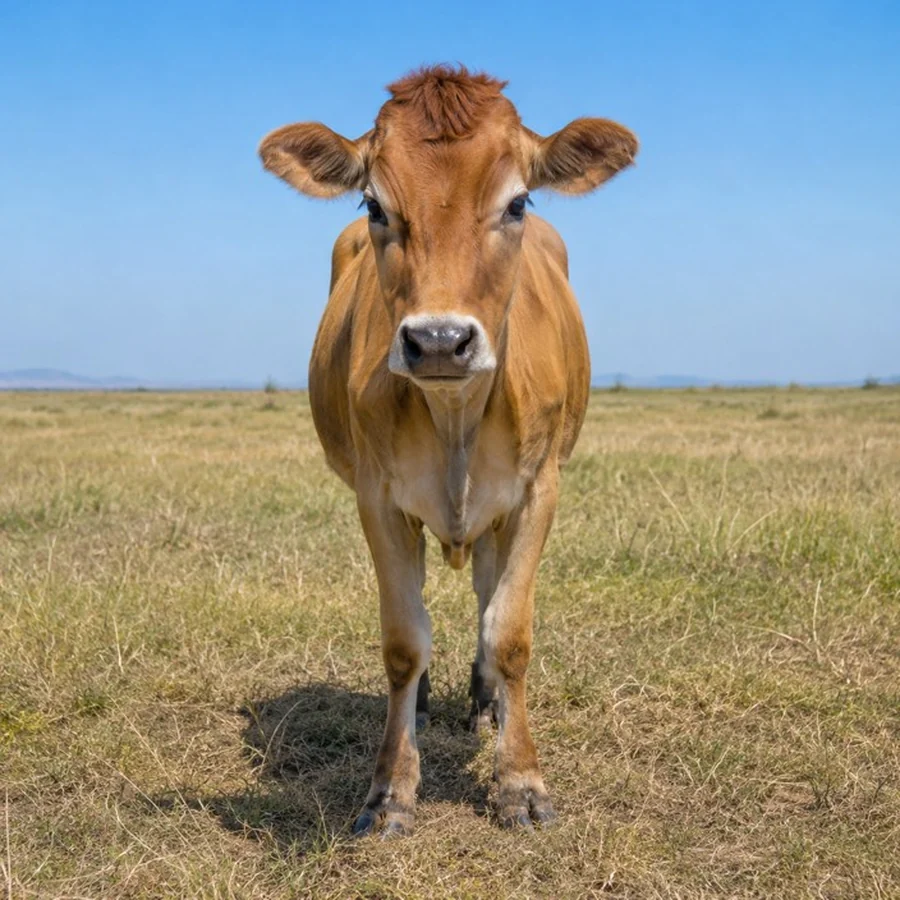
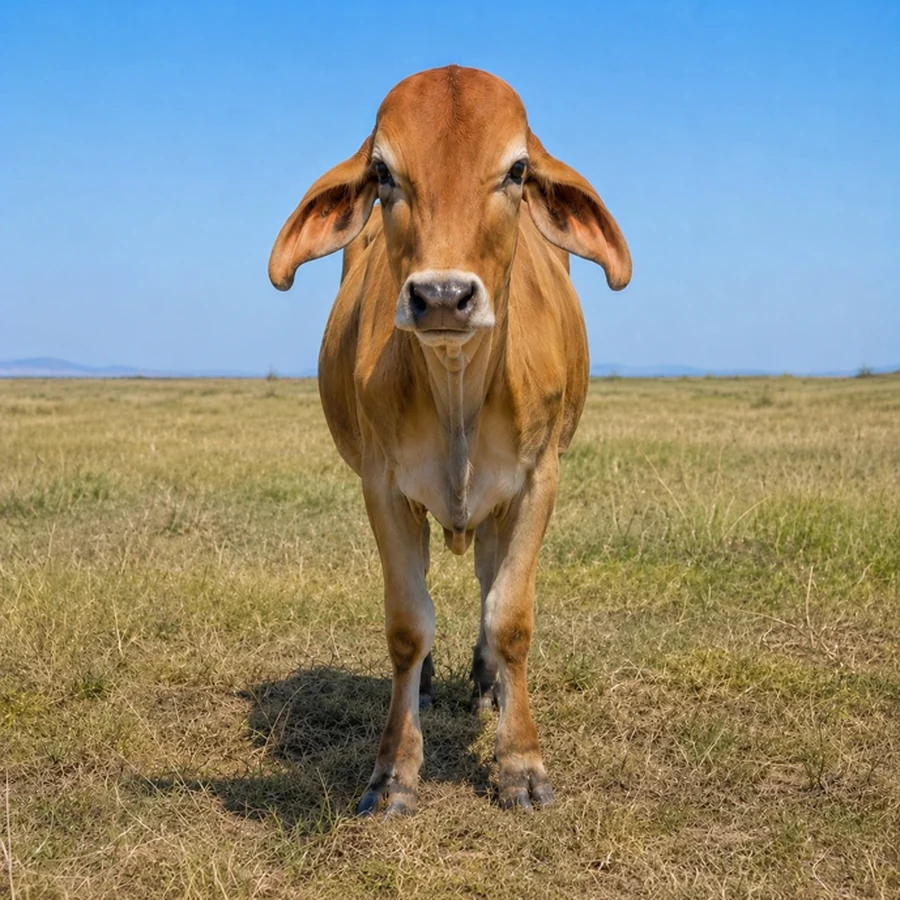
Swap comparison cattle photos (beef-type cows) and adjust two leader dots

diff --git a/assets/js/main.js b/assets/js/main.js
@@ -93,8 +93,8 @@ document.querySelectorAll('.compare').forEach(function (c) {
 // Leader lines: fan from each tag to a point on the cow
 (function () {
   var SVGNS = 'http://www.w3.org/2000/svg';
-  var AR = [[58, 37], [62, 48], [57, 58], [54, 65], [62, 72], [59, 81], [60, 90]];
-  var ES = [[42, 46], [42, 56], [43, 66], [45, 76], [46, 86]];
+  var AR = [[58, 37], [56, 48], [57, 58], [54, 65], [62, 72], [59, 81], [60, 90]];
+  var ES = [[42, 46], [45, 50], [43, 66], [45, 76], [46, 86]];
   function draw() {
     document.querySelectorAll('.compare').forEach(function (c) {
       var frame = c.querySelector('.compare__frame');
